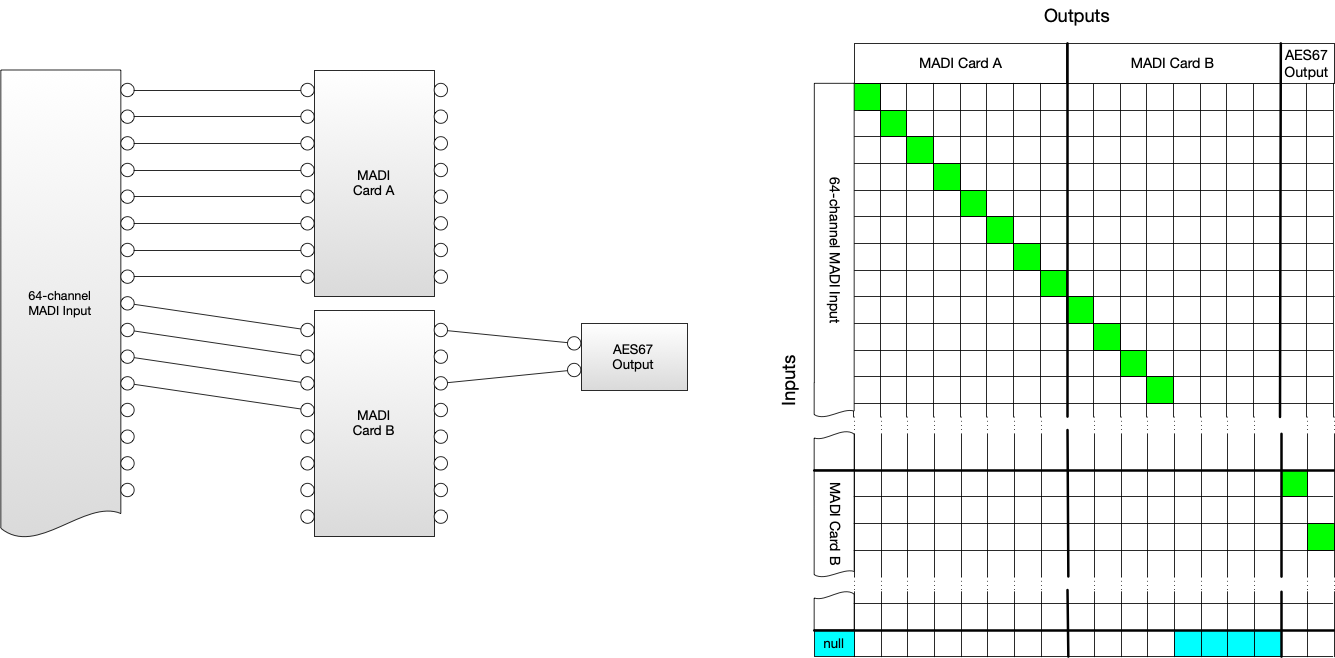
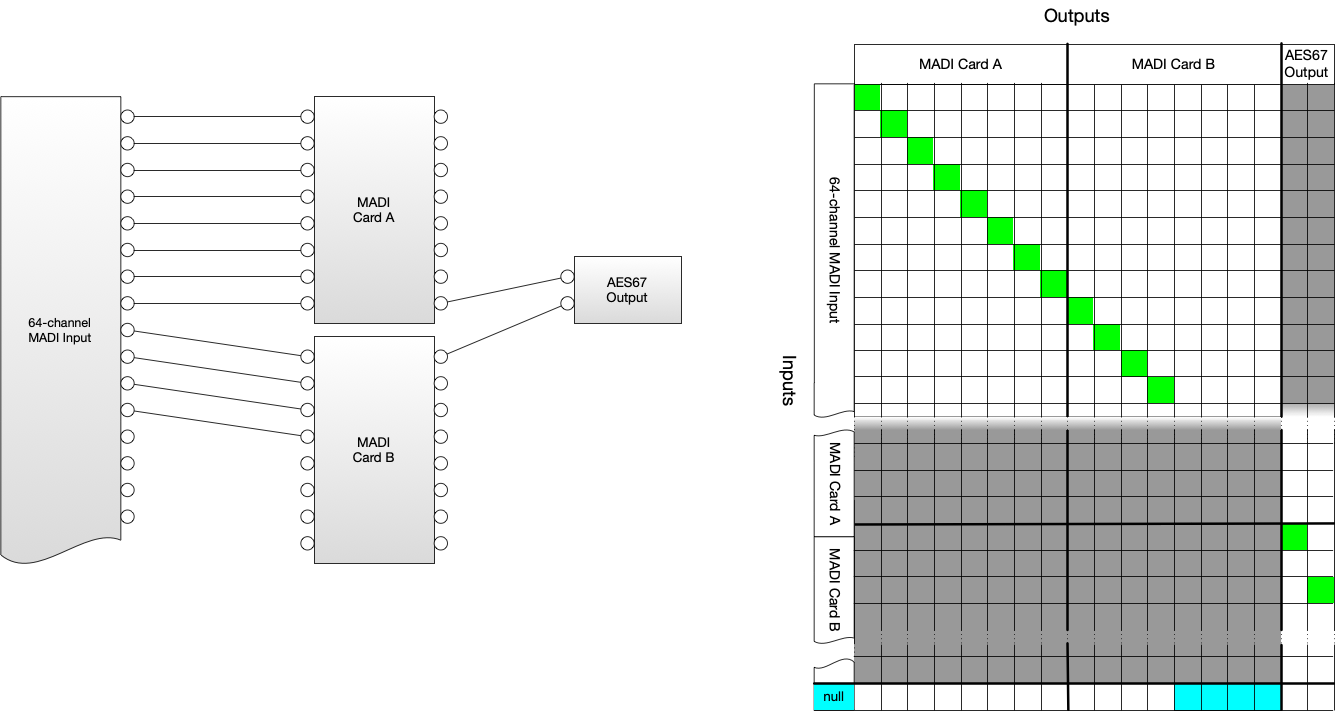
Updated re-entrant diagram and text

diff --git a/docs/4.0. Behaviour.md b/docs/4.0. Behaviour.md
@@ -260,6 +260,32 @@ Some Devices have more complex routing requirements. For example, a Device may h
 
 ![re-entrant mapping example](images/map-examples/re-entrant-example.png "Re-entrant mapping example")
 
+In this example we indicate which inputs can be routed to the AES67 output with `/outputs/aes67/caps` as follows:
+```json
+{
+  "routable_inputs": [
+    "madi-a",
+    "madi-b"
+  ]
+}
+```
+
+And the re-entrant mapping is represented with `/map/active/aes67`:
+```json
+{
+  "aes67":{
+    "0":{
+      "input": "madi-b",
+      "channel_index": 0
+    },
+    "1":{
+      "input": "madi-b",
+      "channel_index": 2
+    }
+  }
+}
+```
+
 In this scenario the audio undergoes two distinct routing operations - the first from the MADI input to the MADI card, and then a second from the MADI card to the AES67 output. In order to allow for these kinds of restrictions the Audio Channel Mapping API supports re-entrant mappings, in which audio at an Output may be routed back to an Input. This is signaled to the control system by the same Source ID being present in both the Output's `sourceid` resource and also the Input's `parent` resource.
 
 Where this is done the Device MUST ensure that the Output constraints prevents audio being routed such that a loop is formed, which is to say audio must not be able to be routed back to the Output from which it originated.
